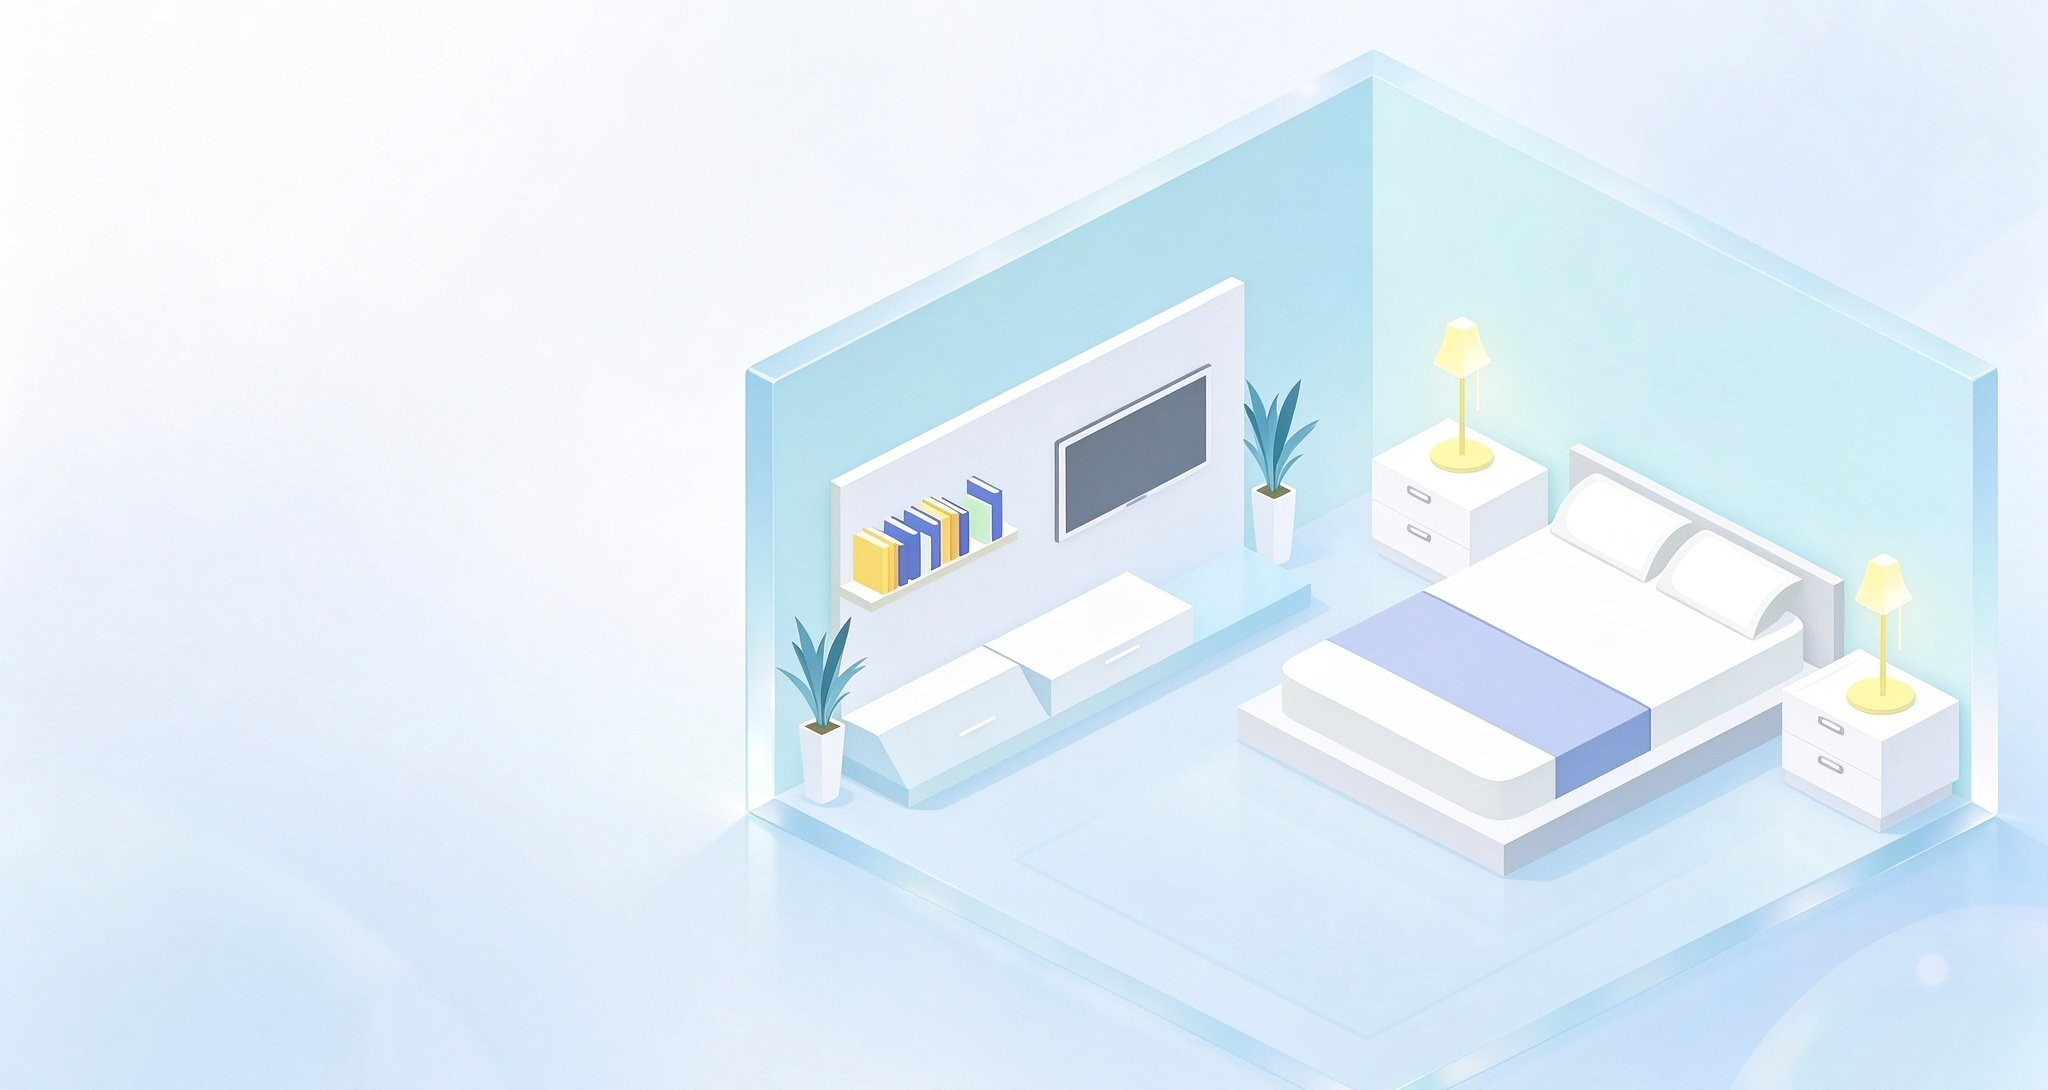
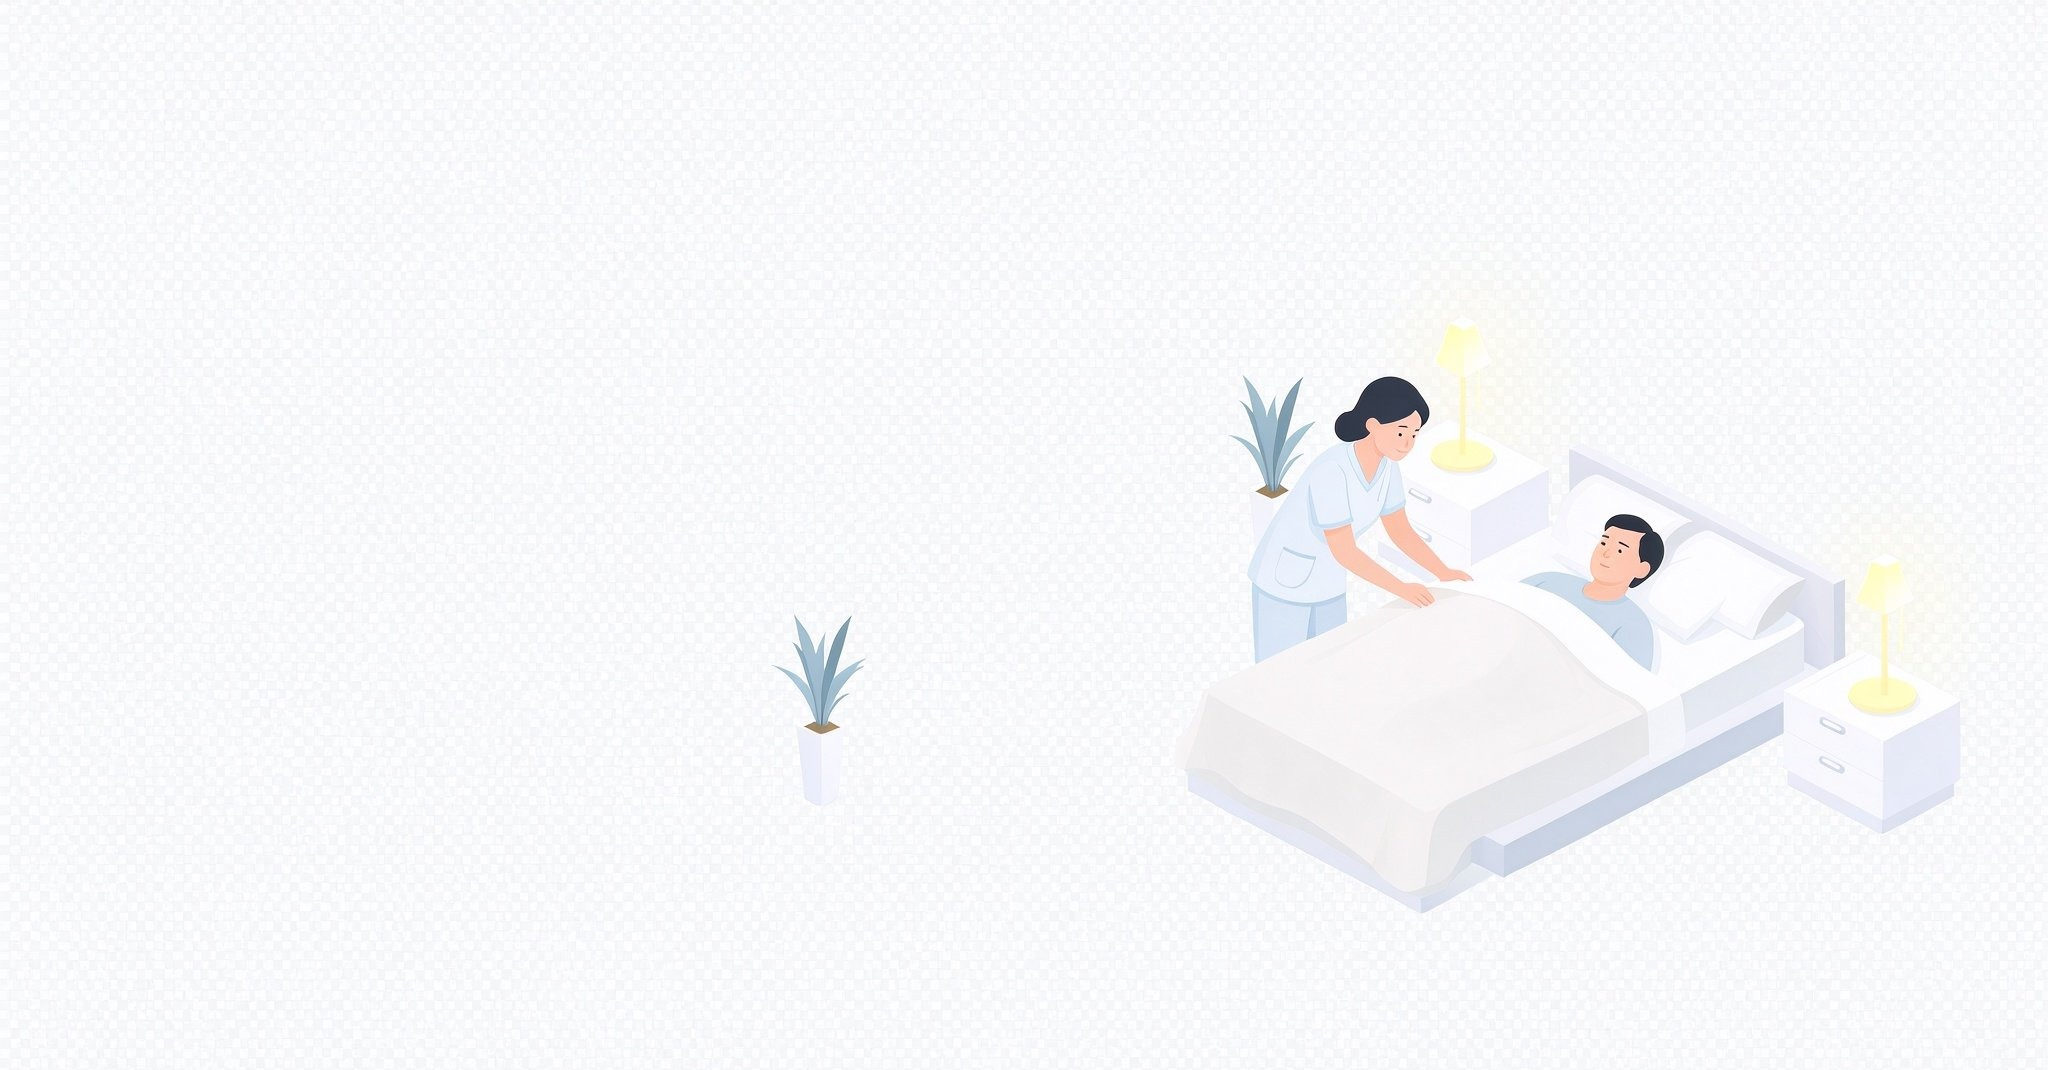
feat: home care H5 initial release

diff --git a/styles.css b/styles.css
@@ -608,9 +608,9 @@ textarea.field__box { height: auto; min-height: 74px; padding: 10px 11px; line-h
 .agree-block { margin: 2px 0 0; padding: 12px 14px; background: #fff; border: 1px solid #E9EFF8; border-radius: 16px; box-shadow: var(--shadow-sm); }
 
 /* ---------------- medical-health visual polish ---------------- */
-.book-hero { position: relative; padding-bottom: 14px; overflow: hidden; background: linear-gradient(145deg, #E8F2FF 0%, #F7FBFF 54%, #ECFBF4 100%); }
+.book-hero { position: relative; isolation: isolate; padding-bottom: 14px; overflow: hidden; background: linear-gradient(145deg, #E8F2FF 0%, #F7FBFF 54%, #ECFBF4 100%); }
 .book-hero__photo { position: absolute; inset: 0; z-index: 0; overflow: hidden; -webkit-mask-image: linear-gradient(to bottom, transparent 0%, #000 11%, #000 76%, transparent 100%); mask-image: linear-gradient(to bottom, transparent 0%, #000 11%, #000 76%, transparent 100%); }
-.book-hero__photo img { width: 100%; height: 100%; object-fit: cover; object-position: center 54%; opacity: .95; }
+.book-hero__photo img { width: 100%; height: 100%; object-fit: cover; object-position: center 55%; opacity: .9; mix-blend-mode: multiply; filter: saturate(.9) contrast(1.02); }
 .book-hero__photo::after { content: ""; position: absolute; inset: 0; background: linear-gradient(90deg, rgba(232,242,255,.98) 0%, rgba(232,242,255,.9) 30%, rgba(232,242,255,.42) 54%, transparent 76%); }
 .book-hero > *:not(.book-hero__photo) { position: relative; z-index: 2; }
 .book-hero__copy { position: relative; z-index: 2; flex: 1; min-width: 0; }
